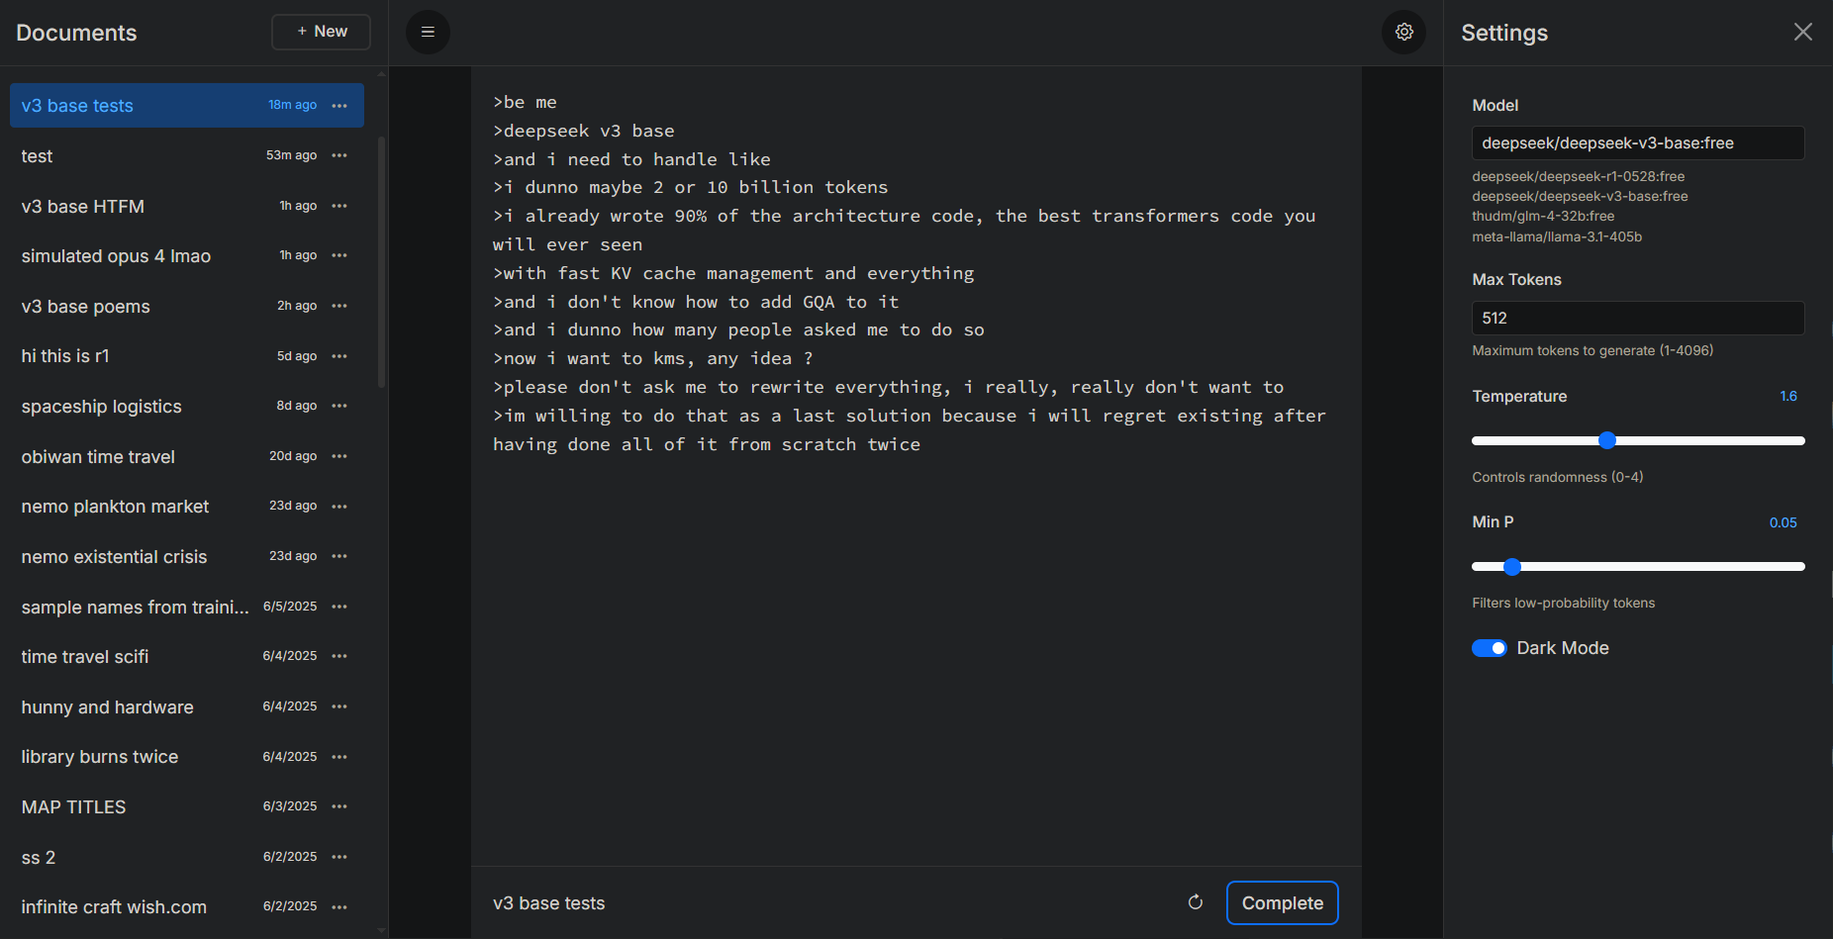
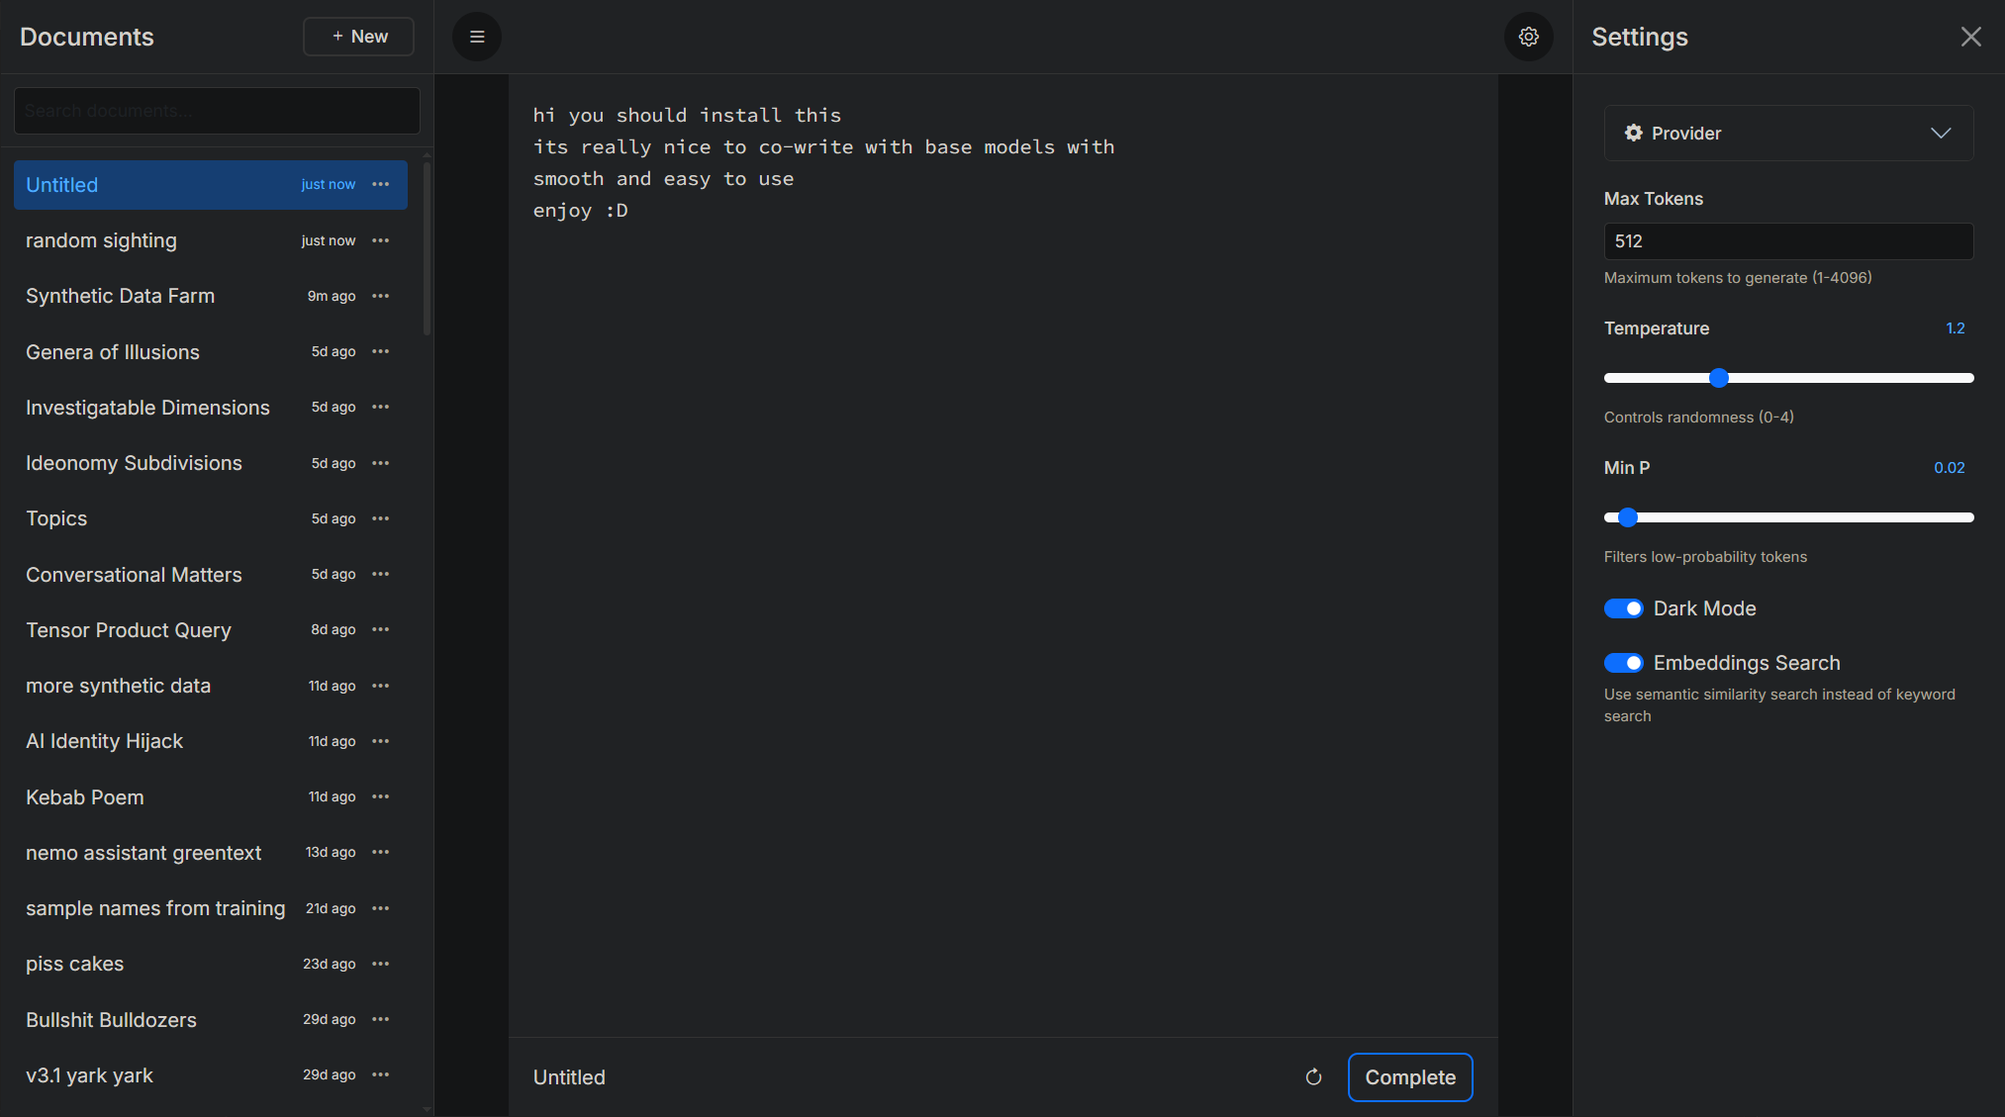
change model select accordion

diff --git a/static/js/app.js b/static/js/app.js
@@ -1015,86 +1015,47 @@ document.addEventListener('DOMContentLoaded', function() {
         }
     });
     
-    // Update model examples and field visibility based on provider
+    // Update provider-specific settings visibility and ensure values are synchronized
     function updateModelExamples() {
+        const providerField = document.getElementById('provider');
+        if (!providerField) return;
+        
+        const provider = providerField.value;
+        const openrouterSettings = document.getElementById('openrouter-settings');
+        const openaiSettings = document.getElementById('openai-settings');
+        const chutesSettings = document.getElementById('chutes-settings');
+        
+        // Hide all provider sections first
+        if (openrouterSettings) openrouterSettings.style.display = 'none';
+        if (openaiSettings) openaiSettings.style.display = 'none';
+        if (chutesSettings) chutesSettings.style.display = 'none';
+        
+        // Show the appropriate section based on provider
+        if (provider === 'openrouter' && openrouterSettings) {
+            openrouterSettings.style.display = 'block';
+        } else if (provider === 'openai' && openaiSettings) {
+            openaiSettings.style.display = 'block';
+        } else if (provider === 'chutes' && chutesSettings) {
+            chutesSettings.style.display = 'block';
+        }
+        
+        // Ensure field synchronization after visibility changes
+        syncModelFields();
+    }
+    
+    // Sync model values between provider-specific model fields
+    function syncModelFields() {
         const provider = document.getElementById('provider').value;
-        const modelHelpText = document.getElementById('model-help-text');
-        const openaiEndpointField = document.getElementById('openai-endpoint-field');
-        const modelField = document.getElementById('model-field');
-        const openrouterApiKeyField = document.getElementById('openrouter-api-key-field');
-        const customApiKeyField = document.getElementById('custom-api-key-field');
+        const mainModelField = document.getElementById('model');
+        const chutesModelField = document.getElementById('model-chutes');
         
-        // Show/hide fields based on provider
-        if (provider === 'openrouter') {
-            // For OpenRouter: show only the OpenRouter API key field
-            modelField.style.display = 'none';
-            openaiEndpointField.style.display = 'none';
-            openrouterApiKeyField.style.display = 'block';
-            customApiKeyField.style.display = 'none';
-        } else if (provider === 'openai') {
-            // For OpenAI: show model, endpoint, and custom API key fields
-            modelField.style.display = 'block';
-            openaiEndpointField.style.display = 'block';
-            openrouterApiKeyField.style.display = 'none';
-            customApiKeyField.style.display = 'block';
-            modelHelpText.innerHTML = 'N/A';
-        } else if (provider === 'chutes') {
-            // For Chutes: show model and custom API key fields
-            modelField.style.display = 'block';
-            openaiEndpointField.style.display = 'none';
-            openrouterApiKeyField.style.display = 'none';
-            customApiKeyField.style.display = 'block';
-            modelHelpText.innerHTML = 'deepseek/deepseek-r1-0528:free<br>deepseek/deepseek-v3-base<br>thudm/glm-4-32b:free<br>moonshotai/kimi-k2:free<br>meta-llama/llama-3.1-405b';
-        }
-        
-        // Update model examples for non-OpenRouter providers
-        if (provider === 'openrouter') {
-            // No model field shown for OpenRouter, so no need to update help text
-        } else if (provider === 'openai') {
-            modelHelpText.innerHTML = '';
-        } else if (provider === 'chutes') {
-            modelHelpText.innerHTML = 'deepseek/deepseek-r1-0528:free<br>deepseek/deepseek-v3-base<br>thudm/glm-4-32b:free<br>moonshotai/kimi-k2:free<br>meta-llama/llama-3.1-405b';
-        }
-    }
-    
-    // Update main model field examples when accordion is closed
-    function updateMainModelExamples() {
-        const mainModelHelpText = document.getElementById('main-model-help-text');
-        // Always show OpenRouter examples when accordion is closed
-        mainModelHelpText.innerHTML = 'deepseek/deepseek-r1-0528:free<br>deepseek/deepseek-v3-base<br>thudm/glm-4-32b:free<br>moonshotai/kimi-k2:free<br>meta-llama/llama-3.1-405b';
-    }
-    
-    // Sync model values between main and advanced fields
-    function syncModelFields(fromField, toField) {
-        const from = document.getElementById(fromField);
-        const to = document.getElementById(toField);
-        if (from && to && from.value !== to.value) {
-            to.value = from.value;
-        }
-    }
-    
-    // Handle accordion state changes
-    function handleAccordionToggle(isOpen) {
-        const mainModelField = document.getElementById('model-main');
-        const advancedModelField = document.getElementById('model');
-        
-        if (isOpen) {
-            // Accordion opened - disable main field, enable advanced
-            mainModelField.disabled = true;
-            mainModelField.style.opacity = '0.6';
-            if (advancedModelField) {
-                advancedModelField.disabled = false;
-                // Sync value from main to advanced
-                syncModelFields('model-main', 'model');
+        if (provider === 'chutes' && chutesModelField && mainModelField) {
+            if (chutesModelField.value !== mainModelField.value) {
+                chutesModelField.value = mainModelField.value;
             }
-        } else {
-            // Accordion closed - enable main field, assume OpenRouter
-            mainModelField.disabled = false;
-            mainModelField.style.opacity = '1';
-            updateMainModelExamples();
-            if (advancedModelField) {
-                // Sync value from advanced to main
-                syncModelFields('model', 'model-main');
+        } else if (provider === 'openrouter' && chutesModelField && mainModelField) {
+            if (mainModelField.value !== chutesModelField.value) {
+                mainModelField.value = chutesModelField.value;
             }
         }
     }
@@ -1102,6 +1063,27 @@ document.addEventListener('DOMContentLoaded', function() {
     // Auto-save settings function
     function autoSaveSettings() {
         const formData = new FormData(domElements.settingsFormInline);
+        
+        // Always get provider and model values from the accordion fields, regardless of accordion state
+        const providerField = document.getElementById('provider');
+        const provider = providerField ? providerField.value : 'openrouter';
+        
+        // Ensure the correct model value is used based on provider selection
+        let modelValue = '';
+        if (provider === 'chutes') {
+            const chutesModelField = document.getElementById('model-chutes');
+            modelValue = chutesModelField ? chutesModelField.value : '';
+        } else if (provider === 'openrouter') {
+            const openrouterModelField = document.getElementById('model');
+            modelValue = openrouterModelField ? openrouterModelField.value : '';
+        }
+        // OpenAI doesn't need a model field
+        
+        // Override form data with the correct values from accordion
+        formData.set('provider', provider);
+        if (modelValue) {
+            formData.set('model', modelValue);
+        }
         
         // Handle OpenRouter API key separately if it's being changed
         const openrouterApiKey = formData.get('openrouter_api_key');
@@ -1159,7 +1141,7 @@ document.addEventListener('DOMContentLoaded', function() {
         .then(response => response.json())
         .then(data => {
             if (data.success) {
-                // Update window.config
+                // Update window.config with the values that were actually sent
                 window.config = Object.assign(window.config || {}, {
                     model: formData.get('model'),
                     temperature: parseFloat(formData.get('temperature')),
@@ -1168,13 +1150,11 @@ document.addEventListener('DOMContentLoaded', function() {
                     repetition_penalty: parseFloat(formData.get('repetition_penalty')),
                     max_tokens: parseInt(formData.get('max_tokens')),
                     dark_mode: formData.get('dark_mode') === 'on',
-                    provider: formData.get('provider'),
+                    provider: provider, // Use the provider from accordion
                     custom_api_key: formData.get('custom_api_key'),
                     openai_endpoint: formData.get('openai_endpoint'),
                     embeddings_search: formData.get('embeddings_search') === 'on'
                 });
-                
-                // Editor colors now handled by CSS variables automatically
                 
                 // Silent auto-save (no toast)
             }
@@ -1229,50 +1209,43 @@ document.addEventListener('DOMContentLoaded', function() {
     if (providerSelect) {
         providerSelect.addEventListener('change', function() {
             updateModelExamples();
+            syncModelFields();
             debouncedAutoSave();
         });
         
-        // Initialize model examples on page load
+        // Initialize provider settings on page load - ensure correct provider is selected
+        // and all fields are properly synchronized
+        if (window.config && window.config.provider) {
+            providerSelect.value = window.config.provider;
+        }
         updateModelExamples();
+        
+        // Ensure model fields have correct values on load
+        if (window.config && window.config.model) {
+            const modelField = document.getElementById('model');
+            const chutesModelField = document.getElementById('model-chutes');
+            
+            if (modelField) modelField.value = window.config.model;
+            if (chutesModelField) chutesModelField.value = window.config.model;
+        }
     }
     
-    // Main model input change handler
-    const mainModelInput = document.getElementById('model-main');
-    if (mainModelInput) {
-        mainModelInput.addEventListener('input', function() {
-            // Sync to advanced field if it exists
-            syncModelFields('model-main', 'model');
-            debouncedAutoSave();
-        });
-    }
-    
-    // Advanced model input change handler
+    // OpenRouter model input change handler
     const modelInput = document.getElementById('model');
     if (modelInput) {
         modelInput.addEventListener('input', function() {
-            // Sync to main field if accordion is open
-            const accordion = document.getElementById('advancedCollapse');
-            if (accordion && accordion.classList.contains('show')) {
-                syncModelFields('model', 'model-main');
-            }
+            syncModelFields();
             debouncedAutoSave();
         });
     }
     
-    // Accordion event listeners
-    const accordionElement = document.getElementById('advancedCollapse');
-    if (accordionElement) {
-        accordionElement.addEventListener('shown.bs.collapse', function() {
-            handleAccordionToggle(true);
+    // Chutes model input change handler
+    const chutesModelInput = document.getElementById('model-chutes');
+    if (chutesModelInput) {
+        chutesModelInput.addEventListener('input', function() {
+            syncModelFields();
+            debouncedAutoSave();
         });
-        
-        accordionElement.addEventListener('hidden.bs.collapse', function() {
-            handleAccordionToggle(false);
-        });
-        
-        // Initialize state based on current accordion state
-        const isOpen = accordionElement.classList.contains('show');
-        handleAccordionToggle(isOpen);
     }
     
     // Ctrl+S handler to show "Autosaved on edit" toast
@@ -1352,6 +1325,10 @@ document.addEventListener('DOMContentLoaded', function() {
         
         // Disable submit button
         this.disabled = true;
+        
+        // Ensure settings are saved with current accordion values before generation
+        // This guarantees the generation uses the selected provider/model
+        autoSaveSettings();
         
         // Get content and strip trailing spaces from each line while preserving newlines
         const content = editor.value

diff --git a/templates/index.html b/templates/index.html
@@ -1120,24 +1120,16 @@
             </div>
             <div class="sidebar-content">
                 <form id="settings-form-inline" class="settings-form">
-                    <div class="mb-4" id="model-field-main">
-                        <label for="model-main" class="form-label">Model</label>
-                        <input type="text" class="form-control form-control-sm" id="model-main" name="model" value="{{ config.model }}" required>
-                        <div class="form-text" id="main-model-help-text">
-                            deepseek/deepseek-r1-0528:free<br>deepseek/deepseek-v3-base<br>thudm/glm-4-32b:free<br>moonshotai/kimi-k2:free<br>meta-llama/llama-3.1-405b
-                        </div>
-                    </div>
-                    
-                    <!-- Advanced Settings Accordion -->
+                    <!-- Provider Selection Accordion -->
                     <div class="mb-4">
-                        <div class="accordion" id="advancedSettingsAccordion">
+                        <div class="accordion" id="providerSettingsAccordion">
                             <div class="accordion-item">
-                                <h2 class="accordion-header" id="advancedHeading">
-                                    <button class="accordion-button collapsed" type="button" data-bs-toggle="collapse" data-bs-target="#advancedCollapse" aria-expanded="false" aria-controls="advancedCollapse">
-                                        <i class="bi bi-gear-fill me-2"></i>Other Providers
+                                <h2 class="accordion-header" id="providerHeading">
+                                    <button class="accordion-button collapsed" type="button" data-bs-toggle="collapse" data-bs-target="#providerCollapse" aria-expanded="false" aria-controls="providerCollapse">
+                                        <i class="bi bi-gear-fill me-2"></i>Provider
                                     </button>
                                 </h2>
-                                <div id="advancedCollapse" class="accordion-collapse collapse" aria-labelledby="advancedHeading" data-bs-parent="#advancedSettingsAccordion">
+                                <div id="providerCollapse" class="accordion-collapse collapse" aria-labelledby="providerHeading" data-bs-parent="#providerSettingsAccordion">
                                     <div class="accordion-body">
                                         <div class="mb-3">
                                             <label for="provider" class="form-label">Provider</label>
@@ -1146,33 +1138,49 @@
                                                 <option value="openai" {% if config.get('provider', 'openrouter') == 'openai' %}selected{% endif %}>OpenAI-Compatible</option>
                                                 <option value="chutes" {% if config.get('provider', 'openrouter') == 'chutes' %}selected{% endif %}>Chutes AI</option>
                                             </select>
-                                            <div class="form-text">Select the API provider to use</div>
+                                            <!-- <div class="form-text">Select the API provider to use</div> -->
                                         </div>
                                         
-                                        <div class="mb-3" id="model-field" style="display: none;">
-                                            <label for="model" class="form-label">Model</label>
-                                            <input type="text" class="form-control form-control-sm" id="model" name="model" value="{{ config.model }}" required>
-                                            <div class="form-text" id="model-help-text">
-                                                deepseek/deepseek-r1-0528<br>deepseek/deepseek-v3-base<br>deepseek/deepseek-v3.1-base<br>thudm/glm-4-32b<br>moonshotai/kimi-k2<br>meta-llama/llama-3.1-405b
+                                        <!-- OpenRouter Settings -->
+                                        <div id="openrouter-settings">
+                                            <div class="mb-3" id="model-field-openrouter">
+                                                <label for="model" class="form-label">Model</label>
+                                                <input type="text" class="form-control form-control-sm" id="model" name="model" value="{{ config.model }}" required>
+                                                <div class="form-text" id="model-help-text">
+                                                    deepseek/deepseek-r1-0528<br>deepseek/deepseek-v3.1-base<br>moonshotai/kimi-k2<br>meta-llama/llama-3.1-405b
+                                                </div>
+                                            </div>
+                                            
+                                            <div class="mb-3" id="openrouter-api-key-field">
+                                                <label for="openrouter_api_key" class="form-label">OpenRouter API Key</label>
+                                                <input type="password" class="form-control form-control-sm" id="openrouter_api_key" name="openrouter_api_key" value="" placeholder="Set or change your OpenRouter API key">
+                                                <div class="form-text">This will update your main OpenRouter API token</div>
                                             </div>
                                         </div>
                                         
-                                        <div class="mb-3" id="openai-endpoint-field" style="display: none;">
-                                            <label for="openai_endpoint" class="form-label">OpenAI Endpoint</label>
-                                            <input type="url" class="form-control form-control-sm" id="openai_endpoint" name="openai_endpoint" value="{{ config.get('openai_endpoint', 'http://localhost:8080/v1') }}" placeholder="http://localhost:8080/v1">
-                                            <div class="form-text">Base URL for your OpenAI-compatible server</div>
+                                        <!-- OpenAI-Compatible Settings -->
+                                        <div id="openai-settings" style="display: none;">
+                                            <div class="mb-3" id="openai-endpoint-field">
+                                                <label for="openai_endpoint" class="form-label">Server Endpoint</label>
+                                                <input type="url" class="form-control form-control-sm" id="openai_endpoint" name="openai_endpoint" value="{{ config.get('openai_endpoint', 'http://localhost:8080/v1') }}" placeholder="http://localhost:8080/v1">
+                                                <div class="form-text">Base URL for your OpenAI-compatible server</div>
+                                            </div>
                                         </div>
                                         
-                                        <div class="mb-3" id="openrouter-api-key-field">
-                                            <label for="openrouter_api_key" class="form-label">OpenRouter API Key</label>
-                                            <input type="password" class="form-control form-control-sm" id="openrouter_api_key" name="openrouter_api_key" value="" placeholder="Set or change your OpenRouter API key">
-                                            <div class="form-text">This will update your main OpenRouter API token</div>
-                                        </div>
-                                        
-                                        <div class="mb-3" id="custom-api-key-field">
-                                            <label for="custom_api_key" class="form-label">API Key</label>
-                                            <input type="password" class="form-control form-control-sm" id="custom_api_key" name="custom_api_key" value="{{ config.get('custom_api_key', '') }}" placeholder="Optional - overrides main token">
-                                            <div class="form-text">Provider-specific API key (optional)</div>
+                                        <!-- Chutes AI Settings -->
+                                        <div id="chutes-settings" style="display: none;">
+                                            <div class="mb-3" id="model-field-chutes">
+                                                <label for="model-chutes" class="form-label">Model</label>
+                                                <input type="text" class="form-control form-control-sm" id="model-chutes" name="model" value="{{ config.model }}" required>
+                                                <div class="form-text" id="model-help-text-chutes">
+                                                </div>
+                                            </div>
+                                            
+                                            <div class="mb-3" id="chutes-api-key-field">
+                                                <label for="custom_api_key" class="form-label">Chutes API Key</label>
+                                                <input type="password" class="form-control form-control-sm" id="custom_api_key" name="custom_api_key" value="{{ config.get('custom_api_key', '') }}" placeholder="Your Chutes API key">
+                                                <div class="form-text">Your Chutes AI API key</div>
+                                            </div>
                                         </div>
                                     </div>
                                 </div>
